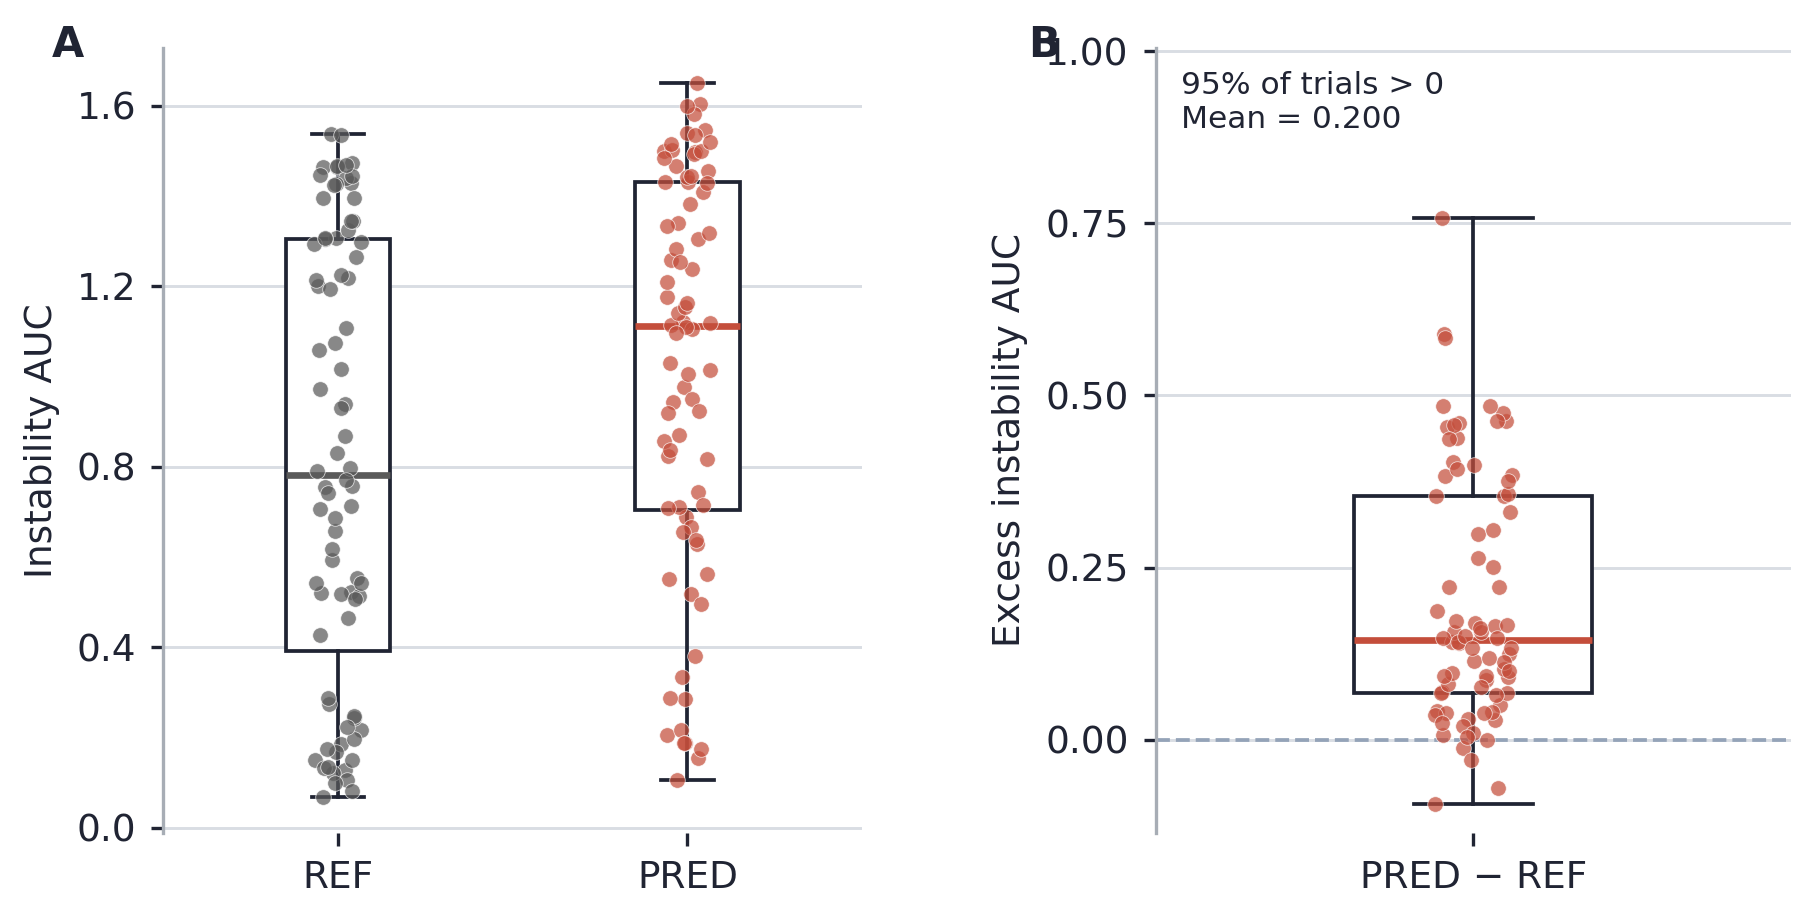
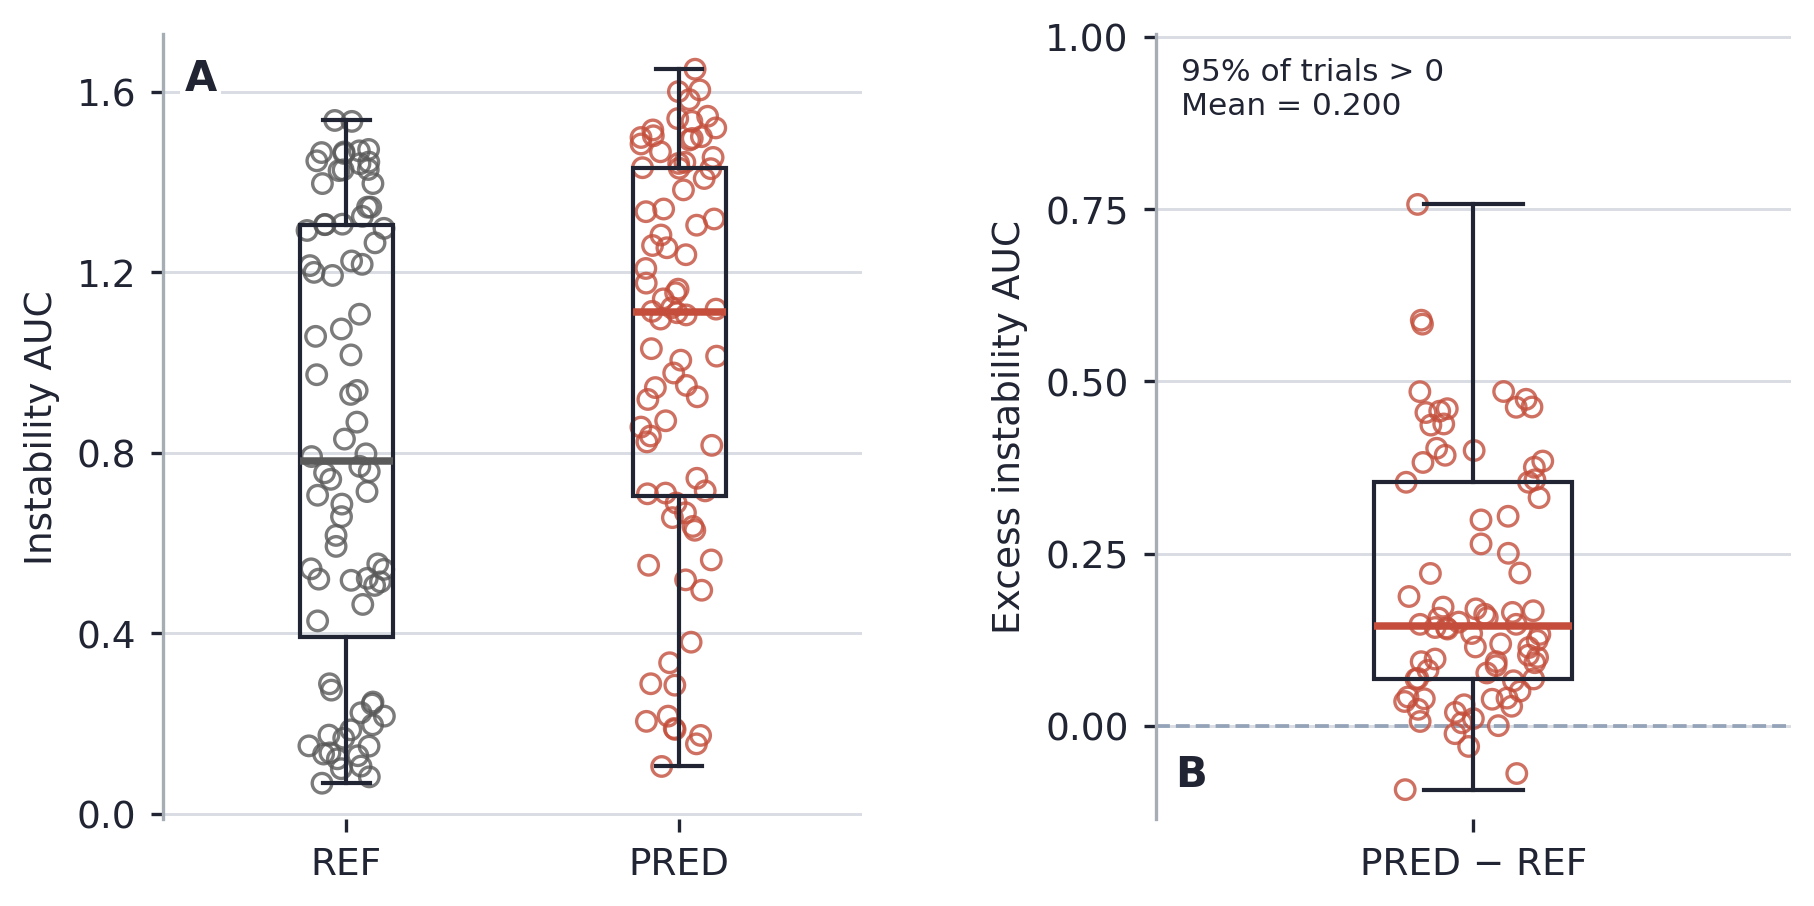
Fig 4: open circles with wider jitter, panel labels inside axes
Switch scatter from small filled dots to open circles (facecolors='none',
edgecolors=col) with wider jitter (0.12 / 0.10) so individual points
are legible. Move A/B panel labels inside the panel corners to avoid
collision with y-axis tick numbers.

diff --git a/analysis/make_paper_figures.py b/analysis/make_paper_figures.py
@@ -674,18 +674,20 @@ def fig4_simulation(sim_df: pd.DataFrame) -> str:
         gridspec_kw={"wspace": 0.44, "width_ratios": [1.1, 1.0]},
     )
 
-    def _box(axp: plt.Axes, data: np.ndarray, xpos: float, col: str, jitter: float = 0.07) -> None:
+    def _box(axp: plt.Axes, data: np.ndarray, xpos: float, col: str, jitter: float = 0.12) -> None:
         axp.boxplot(
-            [data], positions=[xpos], widths=0.30,
+            [data], positions=[xpos], widths=0.28,
             patch_artist=True, showfliers=False,
-            boxprops=dict(facecolor=WHITE, edgecolor=INK, linewidth=0.9),
-            whiskerprops=dict(color=INK, linewidth=0.9),
-            capprops=dict(color=INK, linewidth=0.9),
-            medianprops=dict(color=col, linewidth=1.6),
+            boxprops=dict(facecolor="none", edgecolor=INK, linewidth=1.0),
+            whiskerprops=dict(color=INK, linewidth=1.0),
+            capprops=dict(color=INK, linewidth=1.0),
+            medianprops=dict(color=col, linewidth=1.8),
+            zorder=4,
         )
         axp.scatter(
             xpos + rng.uniform(-jitter, jitter, size=data.size),
-            data, s=14, color=col, edgecolors="white", linewidth=0.2, alpha=0.72, zorder=3,
+            data, s=22, facecolors="none", edgecolors=col,
+            linewidth=0.8, alpha=0.80, zorder=3,
         )
 
     # Panel A — REF vs PRED on shared y-axis
@@ -693,20 +695,21 @@ def fig4_simulation(sim_df: pd.DataFrame) -> str:
     _box(ax_cmp, pred_auc, 2.0, PRED_COL)
     ax_cmp.set_xticks([1.0, 2.0])
     ax_cmp.set_xticklabels(["REF", "PRED"])
-    ax_cmp.set_xlim(0.5, 2.5)
+    ax_cmp.set_xlim(0.45, 2.55)
     ax_cmp.set_ylabel("Instability AUC", fontsize=9)
     ax_cmp.yaxis.set_major_locator(MaxNLocator(nbins=5))
     _grid(ax_cmp, "y")
     ax_cmp.spines["bottom"].set_visible(False)
-    ax_cmp.text(-0.16, 1.03, "A", transform=ax_cmp.transAxes,
-                fontsize=10, fontweight="bold", va="top", color=INK)
+    ax_cmp.text(0.03, 0.97, "A", transform=ax_cmp.transAxes,
+                fontsize=10, fontweight="bold", va="top", color=INK,
+                bbox=dict(fc="white", ec="none", pad=1.0))
 
     # Panel B — excess AUC
-    _box(ax_ex, excess, 1.0, PRED_COL, jitter=0.05)
+    _box(ax_ex, excess, 1.0, PRED_COL, jitter=0.10)
     ax_ex.axhline(0, color="#94a3b8", linewidth=0.9, linestyle="--", zorder=1)
     ax_ex.set_xticks([1.0])
     ax_ex.set_xticklabels(["PRED \u2212 REF"])
-    ax_ex.set_xlim(0.6, 1.4)
+    ax_ex.set_xlim(0.55, 1.45)
     ax_ex.set_ylabel("Excess instability AUC", fontsize=9)
     ax_ex.yaxis.set_major_locator(MaxNLocator(nbins=5))
     _grid(ax_ex, "y")
@@ -720,8 +723,9 @@ def fig4_simulation(sim_df: pd.DataFrame) -> str:
                f"{100 * n_pos / len(excess):.0f}% of trials > 0\nMean = {mean_ex:.3f}",
                transform=ax_ex.transAxes, ha="left", va="top", fontsize=7.5, color=INK,
                bbox=dict(fc="white", ec="none", pad=1.5))
-    ax_ex.text(-0.20, 1.03, "B", transform=ax_ex.transAxes,
-               fontsize=10, fontweight="bold", va="top", color=INK)
+    ax_ex.text(0.03, 0.03, "B", transform=ax_ex.transAxes,
+               fontsize=10, fontweight="bold", va="bottom", color=INK,
+               bbox=dict(fc="white", ec="none", pad=1.0))
 
     out = OUT_DIR / "fig4_simulation_instability.png"
     fig.savefig(out, dpi=300, bbox_inches="tight", pad_inches=0.08)
